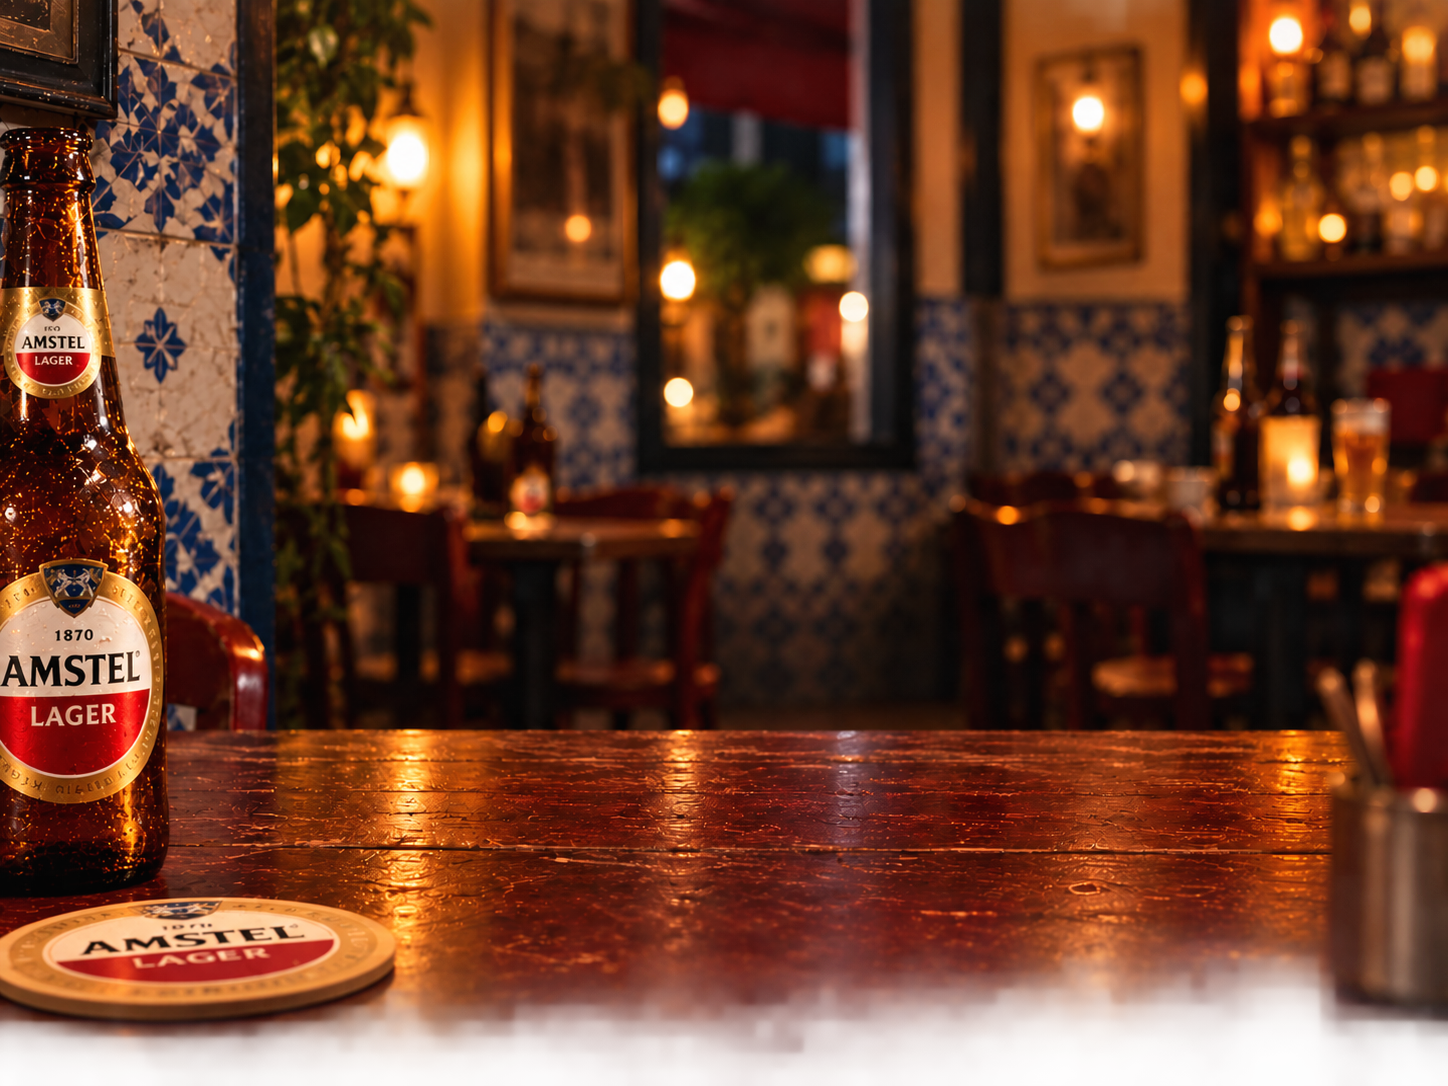
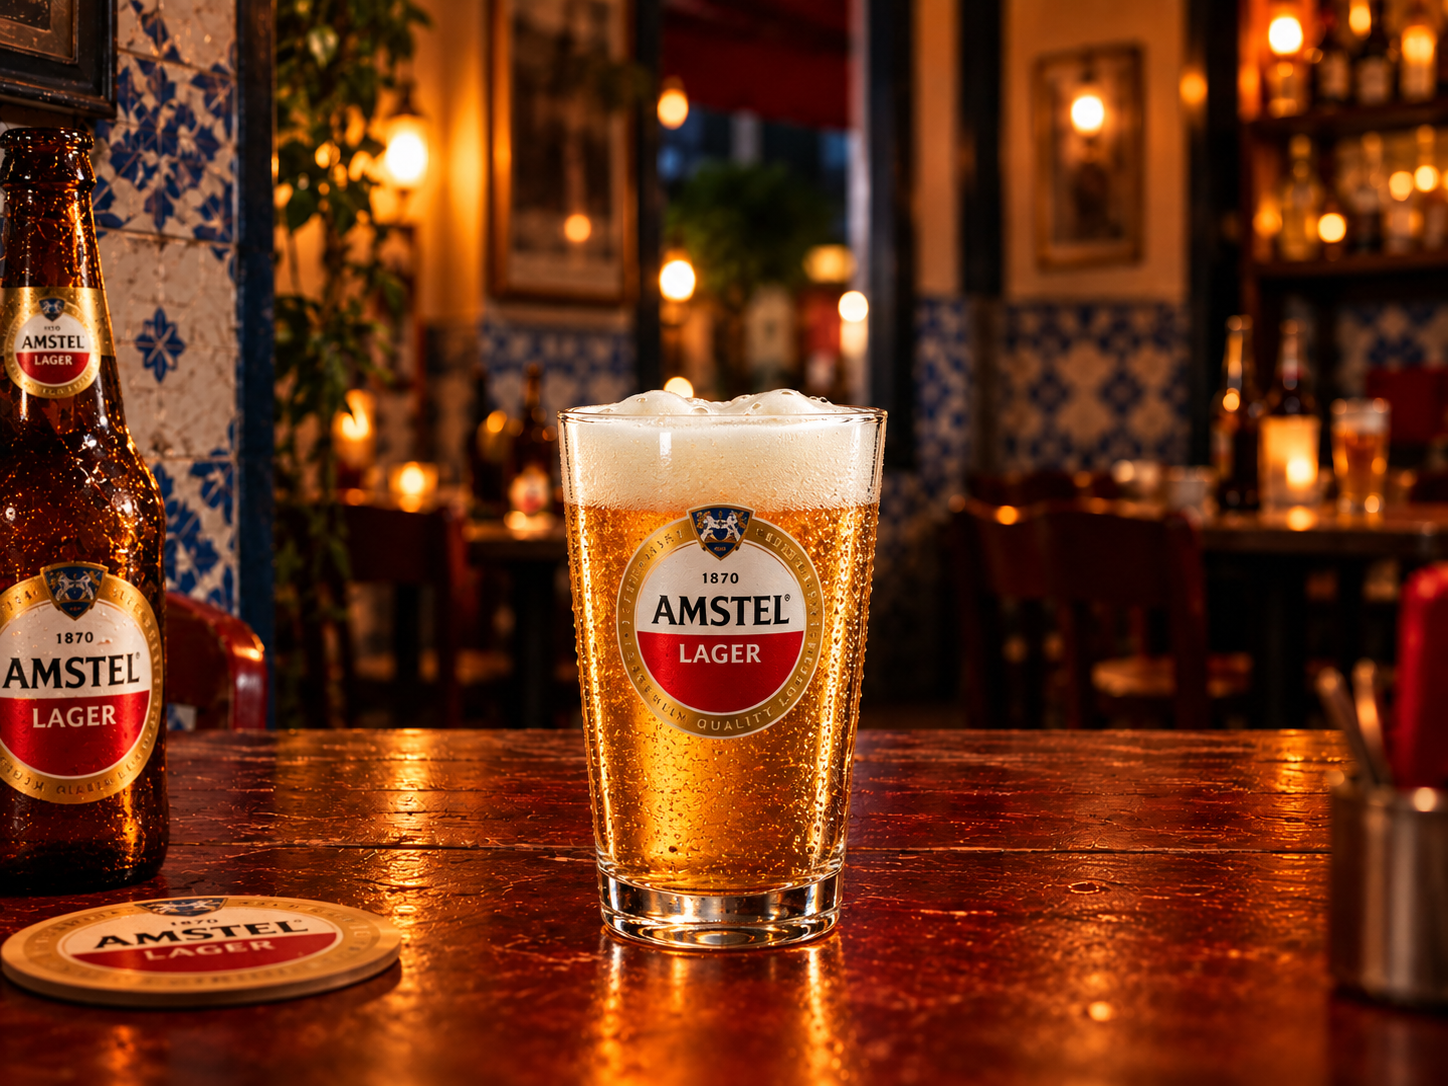
feat: loading simples com imagem fixa do bar e texto

diff --git a/www/css/loading-beer.css b/www/css/loading-beer.css
@@ -1,18 +1,14 @@
-/* ── LOADING AMSTEL — Quarta é Dia de Amstel ── */
+/* ── LOADING AMSTEL ── */
 
-/* 
-  Ocupa SOMENTE a área do #tab-mapa.
-  Header, bottom-nav e azulejo ficam FORA e visíveis.
-*/
 .map-location-loading {
   position: absolute;
   inset: 0;
   z-index: 5;
   overflow: hidden;
   display: flex;
-  flex-direction: column;
-  align-items: center;
-  justify-content: flex-end;
+  align-items: flex-end;
+  justify-content: center;
+  padding-bottom: clamp(48px, 8vh, 80px);
   opacity: 1;
   transition: opacity 0.28s ease;
 }
@@ -26,202 +22,45 @@
   display: none;
 }
 
-/* ── FUNDO ── */
 .map-location-loading__bg {
   position: absolute;
   inset: 0;
   width: 100%;
   height: 100%;
   object-fit: cover;
-  object-position: center 30%;
+  object-position: center center;
   z-index: 0;
 }
 
 .map-location-loading__overlay {
   position: absolute;
   inset: 0;
-  background: rgba(0, 0, 0, 0.20);
+  background: rgba(0, 0, 0, 0.30);
   z-index: 1;
 }
 
-/* ── STAGE DO COPO ── */
-/* Posicionado absolutamente para base "pousar" na mesa */
-.amstel-glass-stage {
-  position: absolute;
-  left: 50%;
-  bottom: clamp(160px, 24vh, 260px);
-  transform: translateX(-50%);
-  width: clamp(140px, 22vw, 200px);
-  aspect-ratio: 0.68 / 1;
-  z-index: 2;
-}
-
-/* ── MÁSCARA INTERNA DO COPO ── */
-/*
-  clip-path trapezoidal imitando geometria interna do Lagoinha:
-  mais largo no topo, afunila na base.
-  Calibrar esses valores olhando o PNG.
-*/
-.glass-inner-mask {
-  position: absolute;
-  left: 11%;
-  right: 11%;
-  top: 7%;
-  bottom: 11%;
-  overflow: hidden;
-  border-radius: 4px 4px 14px 14px;
-  clip-path: polygon(
-    4%  0%,
-    96% 0%,
-    90% 100%,
-    10% 100%
-  );
-  z-index: 1;
-}
-
-/* ── CERVEJA — fica dentro da máscara ── */
-.beer-liquid {
-  position: absolute;
-  left: 0;
-  right: 0;
-  bottom: 0;
-  /* começa em 0, animação sobe via transform no .beer-fill */
-  height: 100%;
-  background: linear-gradient(
-    90deg,
-    rgba(126, 63,  0, .95)  0%,
-    rgba(215,126,  0, .96) 18%,
-    rgba(255,183, 36, .98) 46%,
-    rgba(239,147,  7, .97) 72%,
-    rgba(143, 72,  0, .96) 100%
-  );
-  box-shadow:
-    inset 12px 0 20px rgba(80, 30, 0, .12),
-    inset -12px 0 20px rgba(80, 30, 0, .12),
-    inset 0 8px 14px rgba(255, 214, 120, .16);
-}
-
-/* Faixa de brilho */
-.beer-liquid::before {
-  content: '';
-  position: absolute;
-  top: 0;
-  bottom: 0;
-  left: 18%;
-  width: 12%;
-  background: linear-gradient(
-    90deg,
-    transparent,
-    rgba(255, 255, 255, .18),
-    transparent
-  );
-  filter: blur(2px);
-}
-
-/* Textura de bolhas estáticas */
-.beer-liquid::after {
-  content: '';
-  position: absolute;
-  inset: 0;
-  background-image:
-    radial-gradient(circle at 20% 70%, rgba(255,255,255,.45) 0 1px, transparent 2px),
-    radial-gradient(circle at 55% 45%, rgba(255,255,255,.35) 0 1px, transparent 2px),
-    radial-gradient(circle at 72% 80%, rgba(255,255,255,.35) 0 1px, transparent 2px);
-  background-size:
-    26px 34px,
-    31px 42px,
-    23px 37px;
-  opacity: .45;
-}
-
-/* ── CONJUNTO QUE SOBE (cerveja + espuma como bloco único) ── */
-.beer-fill {
-  position: absolute;
-  left: 0;
-  right: 0;
-  bottom: 0;
-  height: 100%;
-  display: flex;
-  flex-direction: column;
-  justify-content: flex-end;
-  transform: translateY(100%);
-  animation: beer-rise 7s cubic-bezier(0.25, 0.46, 0.45, 0.94) forwards;
-}
-
-@media (prefers-reduced-motion: reduce) {
-  .beer-fill {
-    animation: none;
-    transform: translateY(28%);
-  }
-}
-
-/* ── ESPUMA — presa matematicamente ao topo da cerveja ── */
-.amstel-foam {
-  width: 88%;
-  align-self: center;
-  display: block;
-  flex-shrink: 0;
+.map-location-loading__text {
   position: relative;
   z-index: 2;
-  margin-bottom: -2px;
-  max-height: 18%;
-  object-fit: contain;
-}
-
-/* ── VIDRO — na frente de tudo, cobre bordas da cerveja ── */
-.amstel-glass-img {
-  position: absolute;
-  inset: 0;
-  width: 100%;
-  height: 100%;
-  object-fit: contain;
-  object-position: center;
-  z-index: 3;
-  pointer-events: none;
-}
-
-/* ── LOGO — camada fixa no vidro ── */
-.amstel-glass-logo {
-  position: absolute;
-  width: 40%;
-  top: 38%;
-  left: 50%;
-  transform: translate(-50%, -50%);
-  z-index: 4;
-  pointer-events: none;
-}
-
-/* ── TEXTO ── */
-.map-location-loading__text {
-  position: absolute;
-  left: 50%;
-  bottom: clamp(100px, 14vh, 150px);
-  transform: translateX(-50%);
-  width: min(86%, 420px);
-  text-align: center;
-  z-index: 2;
   font-family: var(--font-heading, 'Anton', sans-serif);
-  font-size: clamp(14px, 1.8vw, 18px);
-  line-height: 1.3;
-  letter-spacing: .04em;
+  font-size: clamp(1rem, 2.8vw, 1.25rem);
+  letter-spacing: 0.08em;
+  color: rgba(255, 242, 210, 0.96);
+  text-shadow: 0 2px 12px rgba(0,0,0,0.7);
+  text-align: center;
   text-transform: none;
-  color: rgba(255, 242, 210, 0.95);
-  text-shadow: 0 1px 8px rgba(0,0,0,.7), 0 0 20px rgba(0,0,0,.4);
+  width: min(90%, 480px);
 }
 
-/* ── ERRO ── */
 .map-location-loading__error {
-  position: absolute;
-  left: 50%;
-  bottom: clamp(80px, 12vh, 130px);
-  transform: translateX(-50%);
-  width: min(86%, 380px);
+  position: relative;
   z-index: 2;
   display: flex;
   flex-direction: column;
   align-items: center;
   gap: 14px;
   text-align: center;
+  width: min(90%, 380px);
 }
 
 .map-location-loading__error-text {
@@ -246,31 +85,4 @@
 
 .map-location-loading__error-btn:active {
   background: #a50d26;
-}
-
-/* ── KEYFRAMES ── */
-@keyframes beer-rise {
-  0%   { transform: translateY(100%); }
-  6%   { transform: translateY(96%); }
-  30%  { transform: translateY(62%); }
-  70%  { transform: translateY(35%); }
-  100% { transform: translateY(28%); }
-}
-
-/* ── RESPONSIVO ── */
-@media (min-width: 768px) {
-  .amstel-glass-stage {
-    width: clamp(170px, 18vw, 210px);
-    bottom: clamp(180px, 26vh, 280px);
-  }
-  .map-location-loading__text {
-    bottom: clamp(120px, 16vh, 170px);
-  }
-}
-
-@media (min-width: 1024px) {
-  .amstel-glass-stage {
-    width: 210px;
-    bottom: clamp(200px, 28vh, 300px);
-  }
 }

diff --git a/www/index.html b/www/index.html
@@ -245,37 +245,9 @@
               aria-hidden="true"
             />
             <div class="map-location-loading__overlay" aria-hidden="true"></div>
-
-            <!-- Copo enchendo -->
-            <div class="amstel-glass-stage" id="amstel-glass-stage" aria-hidden="true">
-              <div class="glass-inner-mask">
-                <div class="beer-fill" id="beer-fill">
-                  <img
-                    class="amstel-foam"
-                    src="/assets/loading/beer-foam.png"
-                    alt=""
-                  />
-                  <div class="beer-liquid"></div>
-                </div>
-              </div>
-              <img
-                class="amstel-glass-img"
-                src="/assets/loading/lagoinha-glass.png"
-                alt=""
-              />
-              <img
-                class="amstel-glass-logo"
-                src="/assets/loading/amstel-logo.png"
-                alt="Amstel"
-              />
-            </div>
-
-            <!-- Texto -->
             <p class="map-location-loading__text" id="mapa-loading-text">
               Encontrando Amstel perto de você…
             </p>
-
-            <!-- Erro (oculto por padrão) -->
             <div id="mapa-loading-error" class="map-location-loading__error hidden"></div>
           </div>
 
